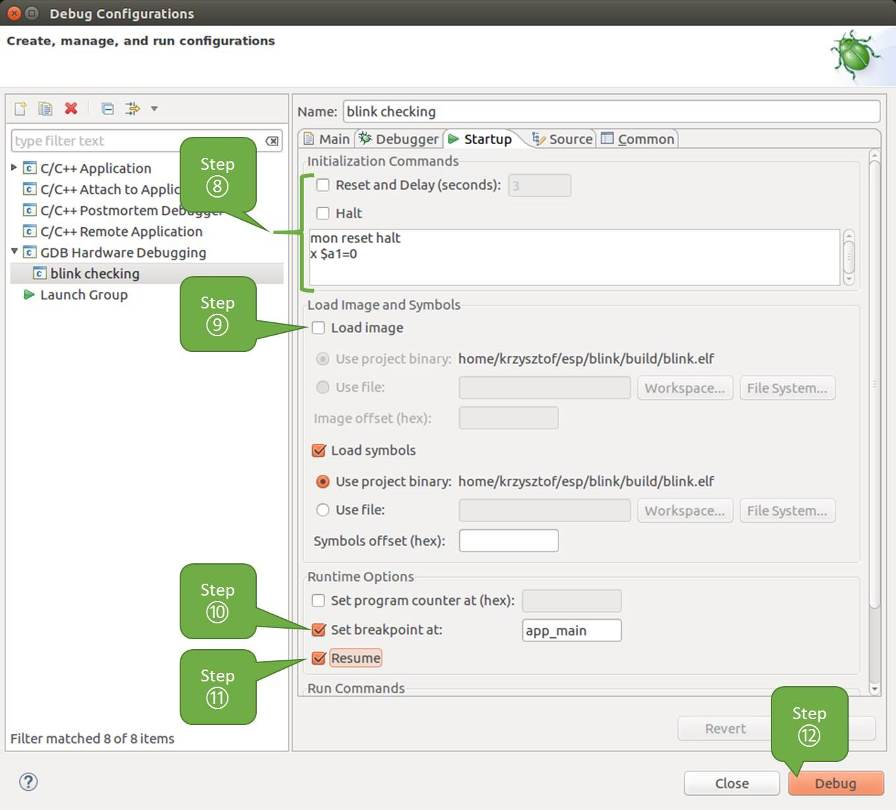
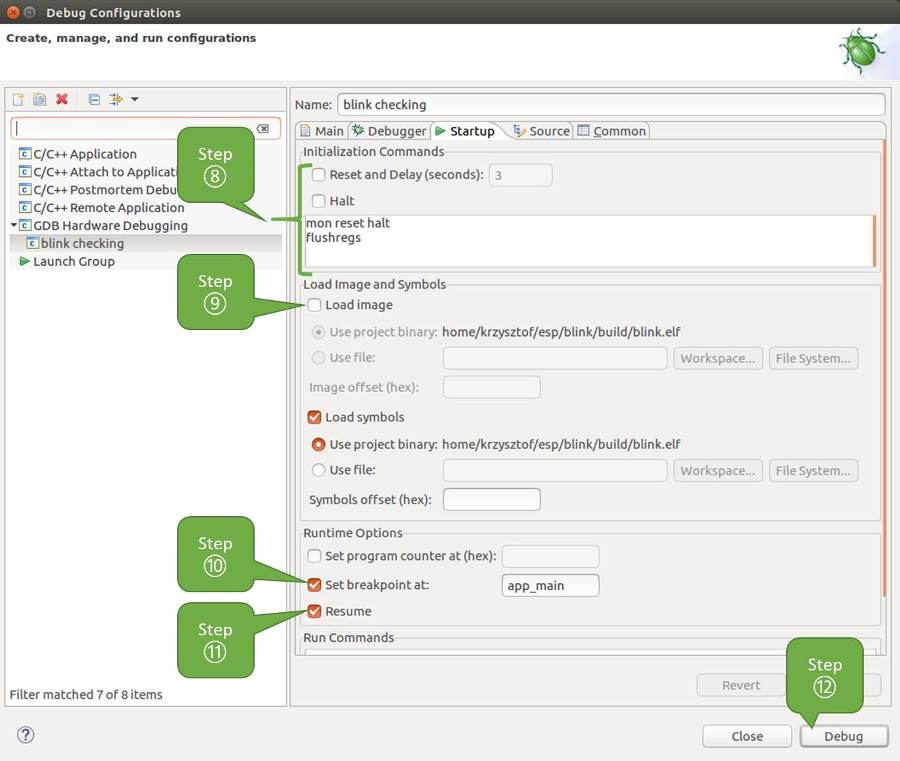
docs/jtag: use ‘flushregs’ instead of ‘x $a1=0” in gdbinit
The old command caused was incorrect (x is “examine”, not “execute”)
and caused GDB register update only by chance. This replaces it with
“flushregs” command which purpose is exactly that — force GDB to
fetch registers from the remote.

diff --git a/docs/en/api-guides/jtag-debugging/tips-and-quirks.rst b/docs/en/api-guides/jtag-debugging/tips-and-quirks.rst
@@ -81,8 +81,8 @@ What is the meaning of debugger's startup commands?
 On startup, debugger is issuing sequence of commands to reset the chip and halt it at specific line of code. This sequence (shown below) is user defined to pick up at most convenient / appropriate line and start debugging. 
 
 * ``mon reset halt`` — reset the chip and keep the CPUs halted
+* ``flushregs`` — monitor (``mon``) command can not inform GDB that the target state has changed. GDB will assume that whatever stack the target had before ``mon reset halt`` will still be valid. In fact, after reset the target state will change, and executing ``flushregs`` is a way to force GDB to get new state from the target.
 * ``thb app_main`` — insert a temporary hardware breakpoint at ``app_main``, put here another function name if required
-* ``x $a1=0`` — this is the tricky part. As far as we can tell, there is no way for a ``mon`` command to tell GDB that the target state has changed. GDB will assume that whatever stack the target had before ``mon reset halt`` will still be valid. In fact, after reset the target state will change and executing ``x $a1=0`` is a way to force GDB to get new state from the target.
 * ``c`` — resume the program. It will then stop at breakpoint inserted at ``app_main``.
 
 

diff --git a/docs/en/api-guides/jtag-debugging/using-debugger.rst b/docs/en/api-guides/jtag-debugging/using-debugger.rst
@@ -48,7 +48,7 @@ Once installation is complete, configure debugging session following steps below
 
         Configuration of GDB Hardware Debugging - Debugger tab
 
-8.  The last tab to that requires changing of default configuration is "Startup". Under "Initialization Commands" uncheck "Reset and Delay (seconds)" and "Halt"". Then, in entry field below, type ``mon reset halt`` and ``x $a1=0`` (in two separate lines).
+8.  The last tab to that requires changing of default configuration is "Startup". Under "Initialization Commands" uncheck "Reset and Delay (seconds)" and "Halt"". Then, in entry field below, type ``mon reset halt`` and ``flushregs`` (in two separate lines).
 
     .. note::
         If you want to update image in the flash automatically before starting new debug session add the following lines of commands at the beginning of "Initialization Commands" textbox::
@@ -113,8 +113,8 @@ Command Line
 
         target remote :3333
         mon reset halt
+        flushregs
         thb app_main
-        x $a1=0
         c
 
     Save this file in current directory. 
